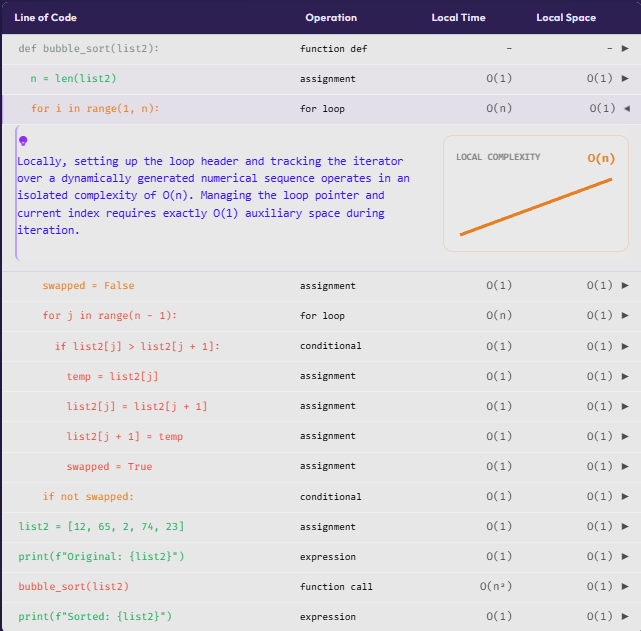
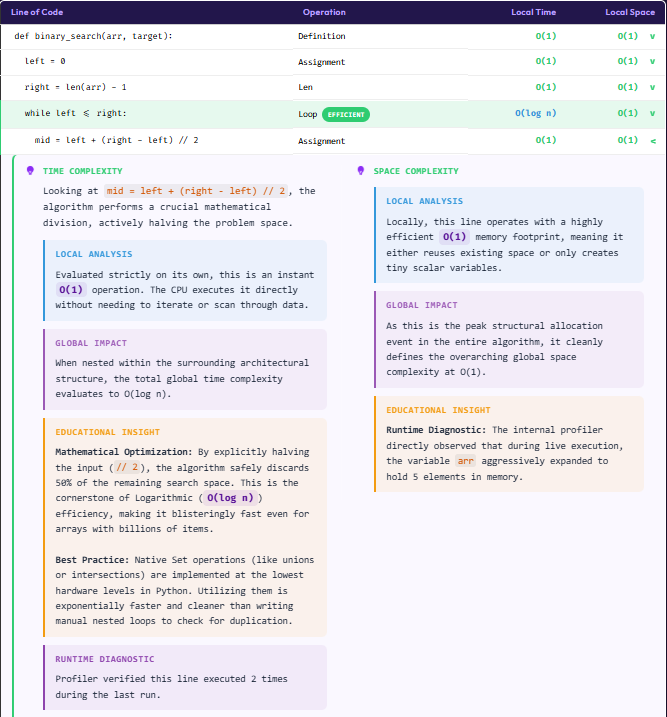
fixing semantic_nlg.py

diff --git a/frontend/src/pages/Dashboard.jsx b/frontend/src/pages/Dashboard.jsx
@@ -3,7 +3,7 @@ import { useCallback, useEffect, useState } from "react";
 import { useNavigate } from "react-router-dom";
 import DashboardHeader from "../components/DashboardHeader";
 import curriculumIndex from "../data/curriculumIndex";
-import { projectsDB } from "../db";
+import { projectsDB, templatesDB } from "../db";
 import "../styles/Dashboard.css";
 
 const API_BASE = import.meta.env.VITE_API_URL || "";
@@ -119,7 +119,7 @@ export default function Dashboard() {
         moduleDesc: nextMod ? modDescriptions[nextMod.moduleId] || "Continue your algorithm learning journey." : "Continue your algorithm learning journey."
       });
 
-      // 2. Load User Projects
+      // 2. Fetch and Sync Projects and Templates from Cloud
       if (navigator.onLine && user) {
         try {
           const token = localStorage.getItem("token") || sessionStorage.getItem("token") || localStorage.getItem("authToken") || sessionStorage.getItem("authToken");
@@ -128,57 +128,59 @@ export default function Dashboard() {
             ...(token ? { "Authorization": `Bearer ${token}` } : {})
           };
 
-          const res = await fetch(`${API_BASE}/api/projects?userId=${user.email}`, { headers });
-          if (res.ok) {
-            const data = await res.json();
-            let cloudProjects = Array.isArray(data.projects) ? data.projects : (Array.isArray(data) ? data : []);
-
+          // Fetch Projects
+          const pRes = await fetch(`${API_BASE}/api/projects?userId=${user.email}`, { headers });
+          if (pRes.ok) {
+            const pData = await pRes.json();
+            const cloudProjects = Array.isArray(pData.projects) ? pData.projects : (Array.isArray(pData) ? pData : []);
             for (const cp of cloudProjects) {
               if (cp.owner_id === user.email || cp.userId === user.email) {
                 await projectsDB.setItem(cp._id, { ...cp, synced: true });
               }
             }
           }
+
+          // Fetch Custom Templates
+          const tRes = await fetch(`${API_BASE}/api/templates?userId=${user.email}`, { headers });
+          if (tRes.ok) {
+            const tData = await tRes.json();
+            const cloudTemplates = Array.isArray(tData.templates) ? tData.templates : (Array.isArray(tData) ? tData : []);
+            for (const ct of cloudTemplates) {
+              if (ct.owner_id === user.email || ct.userId === user.email) {
+                await templatesDB.setItem(ct._id, { ...ct, synced: true });
+              }
+            }
+          }
+
         } catch (fetchErr) {
-          console.error("Failed to fetch cloud projects:", fetchErr);
+          console.error("Failed to fetch cloud projects or templates:", fetchErr);
         }
       }
 
+      // 3. Load from local IndexedDB (handles offline or newly synced data)
       const loadedProjects = [];
       await projectsDB.iterate((value) => {
         if (!user || value.owner_id === user.email || value.userId === user.email) {
           loadedProjects.push(value);
         }
       });
-      
-      const sorted = loadedProjects.sort((a, b) => new Date(b.updatedAt) - new Date(a.updatedAt));
-      setRecentProjects(sorted.slice(0, 5));
+      const sortedProjects = loadedProjects.sort((a, b) => new Date(b.updatedAt || 0) - new Date(a.updatedAt || 0));
+      setRecentProjects(sortedProjects.slice(0, 5));
 
-      // 3. Load Custom User Templates
-      try {
-        const token = localStorage.getItem("token") || sessionStorage.getItem("token") || localStorage.getItem("authToken") || sessionStorage.getItem("authToken");
-        if (token) {
-          const res = await fetch(`${API_BASE}/api/templates/all`, {
-            headers: { Authorization: `Bearer ${token}` }
+      const loadedTemplates = [];
+      await templatesDB.iterate((value) => {
+        if (!user || value.owner_id === user.email || value.userId === user.email) {
+          loadedTemplates.push({
+            ...value,
+            isSystem: false,
+            icon: "/assets/blocks-icon.png", 
+            desc: value.description || "User-created template",
+            name: value.title || value.name || "Untitled Template"
           });
-          if (res.ok) {
-            const customTemplatesData = await res.json();
-            const templatesArray = Array.isArray(customTemplatesData) ? customTemplatesData : (customTemplatesData.templates || []);
-            
-            if (templatesArray.length > 0) {
-              setUserTemplates(templatesArray.map(t => ({
-                ...t,
-                isSystem: false,
-                icon: "/assets/blocks-icon.png", 
-                desc: t.description || "User-created template",
-                name: t.name || t.title || "Untitled Template"
-              })));
-            }
-          }
         }
-      } catch (templateError) {
-        console.warn("Could not fetch custom templates. Defaulting to empty.", templateError);
-      }
+      });
+      const sortedTemplates = loadedTemplates.sort((a, b) => new Date(b.updatedAt || 0) - new Date(a.updatedAt || 0));
+      setUserTemplates(sortedTemplates);
 
     } catch (error) {
       console.error("Failed to load dashboard data:", error);
@@ -286,7 +288,7 @@ export default function Dashboard() {
                   <div className="bento-template-grid">
                     {userTemplates.map((tpl, i) => (
                       <div 
-                        key={i} 
+                        key={tpl._id || i} 
                         className="bento-template-card custom-template-card"
                         onClick={() => handleTryTemplate(tpl)}
                         style={{ borderTop: "3px solid #db7fff" }}
